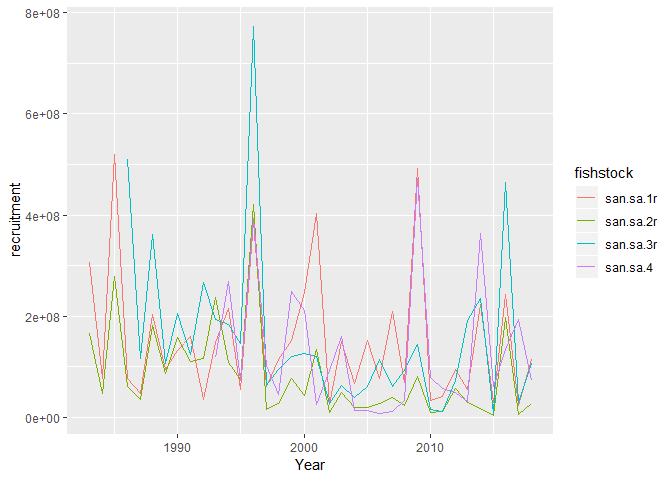
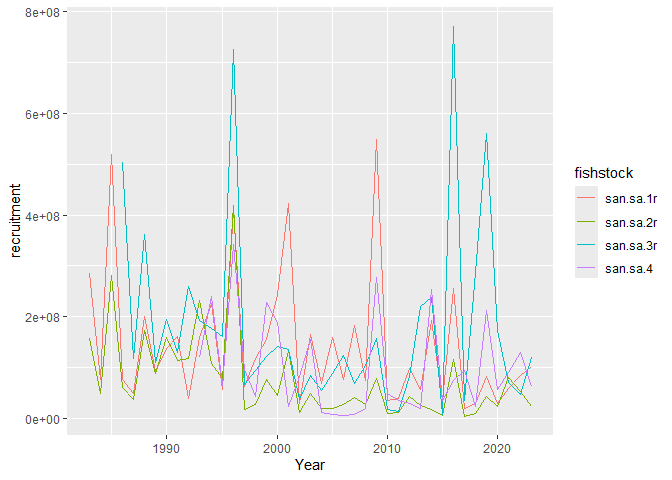
bug fixes and rerun README

diff --git a/README.md b/README.md
@@ -9,7 +9,7 @@ Status](http://r-pkg.org/badges/version/icesSAG)](https://cran.r-project.org/pac
 Monthly](http://cranlogs.r-pkg.org/badges/icesSAG)](https://cran.r-project.org/package=icesSAG)
 [![CRAN
 Total](http://cranlogs.r-pkg.org/badges/grand-total/icesSAG)](https://cran.r-project.org/package=icesSAG)
-[![License](https://img.shields.io/badge/license-GPL%20\(%3E%3D%202\)-blue.svg)](https://www.gnu.org/licenses/gpl-3.0.en.html)
+[![License](https://img.shields.io/badge/license-GPL%20(%3E%3D%202)-blue.svg)](https://www.gnu.org/licenses/gpl-3.0.en.html)
 
 [<img align="right" alt="ICES Logo" width="17%" height="17%" src="http://ices.dk/_layouts/15/1033/images/icesimg/iceslogo.png">](http://ices.dk)
 
@@ -46,41 +46,67 @@ To download the summary data for all sandeel stocks published in 2018
 use:
 
 ``` r
-summary_data <- getSAG(stock = "sandeel", year = 2018)
+summary_data <- getSAG(stock = "sandeel", year = 2023)
+```
+
+    ## GETing ... https://sag.ices.dk/SAG_API/api/SummaryTable?assessmentKey=17718
+
+    ## no token used
+
+    ## OK (HTTP 200).
+    ## 
+    ## GETing ... https://sag.ices.dk/SAG_API/api/SummaryTable?assessmentKey=17712
+    ## no token used
+    ## OK (HTTP 200).
+    ## 
+    ## GETing ... https://sag.ices.dk/SAG_API/api/SummaryTable?assessmentKey=17713
+    ## no token used
+    ## OK (HTTP 200).
+    ## 
+    ## GETing ... https://sag.ices.dk/SAG_API/api/SummaryTable?assessmentKey=17714
+    ## no token used
+    ## OK (HTTP 200).
+    ## 
+    ## GETing ... https://sag.ices.dk/SAG_API/api/SummaryTable?assessmentKey=17720
+    ## no token used
+    ## OK (HTTP 200).
+    ## 
+    ## GETing ... https://sag.ices.dk/SAG_API/api/SummaryTable?assessmentKey=17719
+    ## no token used
+    ## OK (HTTP 200).
+    ## 
+    ## GETing ... https://sag.ices.dk/SAG_API/api/SummaryTable?assessmentKey=17717
+    ## no token used
+    ## OK (HTTP 200).
+
+``` r
 head(summary_data)
 ```
 
-    ##   Year recruitment high_recruitment low_recruitment low_SSB SSB high_SSB
-    ## 1 1970          NA               NA              NA      NA  NA       NA
-    ## 2 1971          NA               NA              NA      NA  NA       NA
-    ## 3 1972          NA               NA              NA      NA  NA       NA
-    ## 4 1973          NA               NA              NA      NA  NA       NA
-    ## 5 1974          NA               NA              NA      NA  NA       NA
-    ## 6 1975          NA               NA              NA      NA  NA       NA
-    ##   catches landings discards low_F  F high_F StockPublishNote Purpose Fage
-    ## 1      NA        0       NA    NA NA     NA  Stock published  Advice <NA>
-    ## 2      NA        0       NA    NA NA     NA  Stock published  Advice <NA>
-    ## 3      NA        0       NA    NA NA     NA  Stock published  Advice <NA>
-    ## 4      NA        0       NA    NA NA     NA  Stock published  Advice <NA>
-    ## 5      NA        0       NA    NA NA     NA  Stock published  Advice <NA>
-    ## 6      NA        0       NA    NA NA     NA  Stock published  Advice <NA>
-    ##   fishstock recruitment_age AssessmentYear  units stockSizeDescription
-    ## 1 san.27.6a              NA           2018 tonnes                 <NA>
-    ## 2 san.27.6a              NA           2018 tonnes                 <NA>
-    ## 3 san.27.6a              NA           2018 tonnes                 <NA>
-    ## 4 san.27.6a              NA           2018 tonnes                 <NA>
-    ## 5 san.27.6a              NA           2018 tonnes                 <NA>
-    ## 6 san.27.6a              NA           2018 tonnes                 <NA>
-    ##   stockSizeUnits fishingPressureDescription fishingPressureUnits
-    ## 1           <NA>                       <NA>                 <NA>
-    ## 2           <NA>                       <NA>                 <NA>
-    ## 3           <NA>                       <NA>                 <NA>
-    ## 4           <NA>                       <NA>                 <NA>
-    ## 5           <NA>                       <NA>                 <NA>
-    ## 6           <NA>                       <NA>                 <NA>
+    ##   Year recruitment high_recruitment low_recruitment low_SSB    SSB high_SSB low_F     F high_F catches landings discards IBC Unallocated_Removals LandingsBMS TBiomass
+    ## 1 1983   285000075        404690458       200709063  307520 452254   665108 0.478 0.596  0.744  382629       NA       NA  NA                   NA          NA       NA
+    ## 2 1984    75526942        108094090        52771793  136696 194269   276092 0.540 0.674  0.840  498671       NA       NA  NA                   NA          NA       NA
+    ## 3 1985   518266424        723794791       371099778  307364 431059   604534 0.577 0.720  0.898  460057       NA       NA  NA                   NA          NA       NA
+    ## 4 1986    75376039        107979318        52616996  202400 265402   348014 0.389 0.484  0.602  382844       NA       NA  NA                   NA          NA       NA
+    ## 5 1987    49081856         72043445        33438554  708828 977741  1348673 0.302 0.377  0.471  373021       NA       NA  NA                   NA          NA       NA
+    ## 6 1988   201037095        284748295       141935577  420971 577810   793081 0.421 0.523  0.651  422805       NA       NA  NA                   NA          NA       NA
+    ##   LogbookRegisteredDiscards StockPublishNote Purpose Fage fishstock recruitment_age AssessmentYear  units stockSizeDescription stockSizeUnits fishingPressureDescription
+    ## 1                        NA  Stock published  Advice  1-2 san.sa.1r               0           2023 tonnes                  SSB         tonnes                      FALSE
+    ## 2                        NA  Stock published  Advice  1-2 san.sa.1r               0           2023 tonnes                  SSB         tonnes                      FALSE
+    ## 3                        NA  Stock published  Advice  1-2 san.sa.1r               0           2023 tonnes                  SSB         tonnes                      FALSE
+    ## 4                        NA  Stock published  Advice  1-2 san.sa.1r               0           2023 tonnes                  SSB         tonnes                      FALSE
+    ## 5                        NA  Stock published  Advice  1-2 san.sa.1r               0           2023 tonnes                  SSB         tonnes                      FALSE
+    ## 6                        NA  Stock published  Advice  1-2 san.sa.1r               0           2023 tonnes                  SSB         tonnes                      FALSE
+    ##   fishingPressureUnits AssessmentKey AssessmentComponent
+    ## 1                   NA         17718                   0
+    ## 2                   NA         17718                   0
+    ## 3                   NA         17718                   0
+    ## 4                   NA         17718                   0
+    ## 5                   NA         17718                   0
+    ## 6                   NA         17718                   0
 
 ``` r
-ggplot(summary_data[complete.cases(summary_data[c("Year", "recruitment")]),], 
+ggplot(summary_data[complete.cases(summary_data[c("Year", "recruitment")]),],
        aes(x=Year, y=recruitment, group = fishstock, colour = fishstock)) +
     geom_line()
 ```
@@ -95,14 +121,11 @@ If you want to see all the web service calls being made set this option
 options(icesSAG.messages = TRUE)
 ```
 
-The result will
-    be
+The result will be
 
 ``` r
 codKeys <- findAssessmentKey("cod", year = 2017)
 ```
-
-    ## GETing ... http://sg.ices.dk/StandardGraphsWebServices.asmx/getListStocks?year=2017
 
 which allows you to investigate the actual web service data if you are
 interested:
@@ -167,8 +190,7 @@ stockFishdata()
 returns a `data.frame` (it requires year as default) with the correctly
 named columns
 
-A simple (almost) minimal example
-is:
+A simple (almost) minimal example is:
 
 ``` r
 info <- stockInfo("whb-comb", 1996, "colin.millar@ices.dk", Purpose = "")
@@ -182,7 +204,7 @@ key <- icesSAG::uploadStock(info, fishdata)
 ```
 
 You can check that the data was uploaded by searching for our stock.
-Note you will need to make sure the icesSAG.use\_token option is set to
+Note you will need to make sure the icesSAG.use_token option is set to
 TRUE
 
 ``` r
@@ -190,22 +212,20 @@ options(icesSAG.use_token = TRUE)
 findAssessmentKey('whb-comb', 1996, full = TRUE)
 ```
 
-    ##   AssessmentKey StockKeyLabel    Purpose StockDatabaseID StockKey
-    ## 1          9331      whb-comb InitAdvice              NA   136737
-    ## 2          9344      whb-comb      Bench              NA   136737
-    ## 3         10081      whb-comb     Advice              NA   136737
-    ##                                              StockDescription
-    ## 1 Blue whiting in Subareas I-IX, XII and XIV (Combined stock)
-    ## 2 Blue whiting in Subareas I-IX, XII and XIV (Combined stock)
-    ## 3 Blue whiting in Subareas I-IX, XII and XIV (Combined stock)
-    ##          Status AssessmentYear              SpeciesName ModifiedDate
-    ## 1 Not Published           1996 Micromesistius poutassou   30/04/2019
-    ## 2 Not Published           1996 Micromesistius poutassou   30/04/2019
-    ## 3 Not Published           1996 Micromesistius poutassou   30/04/2019
-    ##                            SAGStamp
-    ## 1  whb-comb_1996_9331_2019430010623
-    ## 2  whb-comb_1996_9344_2019430010623
-    ## 3 whb-comb_1996_10081_2019430010623
+    ##   AssessmentKey StockKeyLabel    Purpose StockDatabaseID StockKey                                            StockDescription        Status AssessmentYear              SpeciesName
+    ## 1          9331      whb-comb InitAdvice              NA   136737 Blue whiting in Subareas I-IX, XII and XIV (Combined stock) Not Published           1996 Micromesistius poutassou
+    ## 2          9344      whb-comb      Bench              NA   136737 Blue whiting in Subareas I-IX, XII and XIV (Combined stock) Not Published           1996 Micromesistius poutassou
+    ## 3         11559      whb-comb       <NA>              NA   136737 Blue whiting in Subareas I-IX, XII and XIV (Combined stock) Not Published           1996 Micromesistius poutassou
+    ## 4         11560      whb-comb       <NA>              NA   136737 Blue whiting in Subareas I-IX, XII and XIV (Combined stock) Not Published           1996 Micromesistius poutassou
+    ## 5         11561      whb-comb       <NA>              NA   136737 Blue whiting in Subareas I-IX, XII and XIV (Combined stock) Not Published           1996 Micromesistius poutassou
+    ##          ModifiedDate                          SAGStamp LinkToAdvice AssessmentComponent
+    ## 1 31/05/2024 11:13:05  whb-comb_1996_9331_2024531111305           NA                  NA
+    ## 2 31/05/2024 11:13:05  whb-comb_1996_9344_2024531111305           NA                  NA
+    ## 3 31/05/2024 11:13:05 whb-comb_1996_11559_2024531111305           NA                  NA
+    ## 4 31/05/2024 11:13:05 whb-comb_1996_11560_2024531111305           NA                  NA
+    ## 5 31/05/2024 11:13:05 whb-comb_1996_11561_2024531111305           NA                  NA
+
+## THIS IS CURRENTLY BROKEN
 
 We can also look at the landings graph created from the data that were
 uploaded
@@ -213,8 +233,6 @@ uploaded
 ``` r
 plot(getLandingsGraph(key))
 ```
-
-![](README_files/figure-gfm/landings-plot-1.png)<!-- -->
 
 ### References
 
